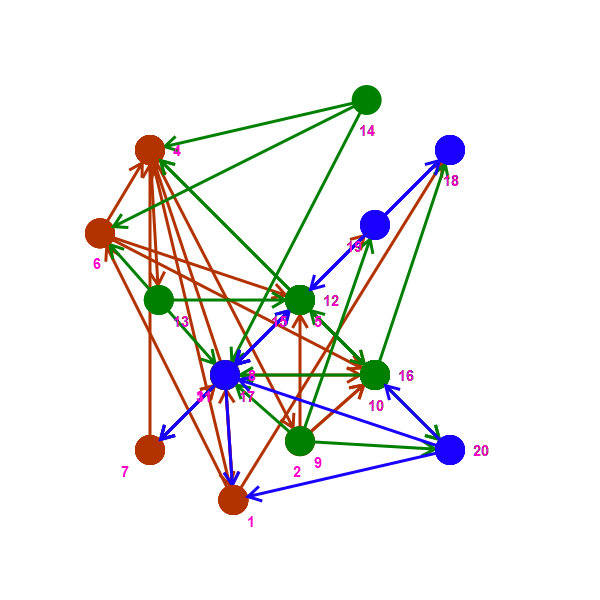
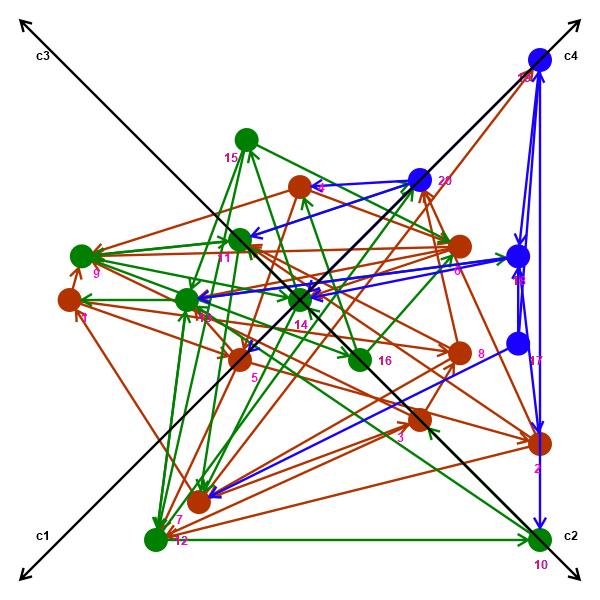
Add coordinate axis to make it more clear which corner corresponds to which challenge. Fix the posible numbers that the scores for each challenge can have {1, ..., 3} to {1, ..., 5}.

diff --git a/visualization.py b/visualization.py
@@ -8,6 +8,7 @@ import random
 WIDTH, HEIGHT = 600, 600
 r = 0.05
 
+
 # This function is a mess. I am SURE there has to be a more elegant solution
 def find_angle(x1, y1, x2, y2):
     if x2 == x1:
@@ -34,6 +35,17 @@ def find_angle(x1, y1, x2, y2):
         return arrow_angle
 
 
+def set_color(role):
+    if role == 'physics':
+        ctx.set_source_rgb(0.7, 0.2, 0)
+    elif role == 'business':
+        ctx.set_source_rgb(0, 0.5, 0)
+    elif role == 'software':
+        ctx.set_source_rgb(0.1, 0, 1)
+    else:
+        ctx.set_source_rgb(0, 0, 0)
+
+
 def draw_arrow(x1, y1, x2, y2, role):
     # print(x1, y1, x2, y2)
     arrow_length = np.linalg.norm(np.array([x1, y1] - np.array([x2, y2]))) - r
@@ -55,24 +67,32 @@ def draw_arrow(x1, y1, x2, y2, role):
         ctx.rel_line_to(-arrowhead_length * math.cos(arrow_angle + arrowhead_angle),
                         -arrowhead_length * math.sin(arrow_angle + arrowhead_angle))
 
-        if role == 'physics':
-            ctx.set_source_rgb(0.7, 0.2, 0)
-        elif role == 'business':
-            ctx.set_source_rgb(0, 0.5, 0)
-        else:
-            ctx.set_source_rgb(0.1, 0, 1)
+        set_color(role)
         ctx.set_line_width(0.01)
         ctx.stroke()
 
 
-def draw_participant(participant):
-    if participant.role == 'physics':
-        ctx.set_source_rgb(0.7, 0.2, 0)
-    elif participant.role == 'business':
-        ctx.set_source_rgb(0, 0.5, 0)
-    else:
-        ctx.set_source_rgb(0.1, 0, 1)
+def draw_text(x, y, txt):
+    ctx.move_to(x, y)
+    ctx.show_text(txt)
 
+
+def draw_coordinate_system():
+    border = 1.2
+    draw_arrow(0, 0, border, border, "")
+    draw_arrow(0, 0, -border, border, "")
+    draw_arrow(0, 0, border, -border, "")
+    draw_arrow(0, 0, -border, -border, "")
+    border = 1
+    x_offset = 0.1
+    draw_text(border + x_offset, border, "c2")
+    draw_text(-border - x_offset, border, "c1")
+    draw_text(border + x_offset, -border, "c4")
+    draw_text(-border - x_offset, -border, "c3")
+
+
+def draw_participant(participant):
+    set_color(participant.role)
     ctx.arc(participant.x, participant.y, r, 0, 2 * math.pi)
     ctx.close_path()
     ctx.fill()
@@ -111,8 +131,9 @@ if __name__ == "__main__":
 
     surface = cairo.ImageSurface(cairo.FORMAT_ARGB32, WIDTH, HEIGHT)
     ctx = cairo.Context(surface)
-    ctx.scale(WIDTH/2, HEIGHT/2)  # Normalizing the canvas
-    ctx.translate(1, 1)
+    canvas_size = 2.5
+    ctx.scale(WIDTH/canvas_size, HEIGHT/canvas_size)  # Normalizing the canvas
+    ctx.translate(canvas_size/2, canvas_size/2)
     ctx.set_line_width(9)
 
     ctx.select_font_face("Purisa", cairo.FONT_SLANT_NORMAL, cairo.FONT_WEIGHT_BOLD)
@@ -129,7 +150,7 @@ if __name__ == "__main__":
         draw_participant(participant)
         for friend in participant.friends:
             friend_object = Participant.get_participant_by_name(participants, friend)
-            draw_participant(friend_object) # TMP
+            # draw_participant(friend_object) # TMP
             draw_arrow(participant.x, participant.y, friend_object.x, friend_object.y, participant.role)
 
     # # Add a little noise to make the distances bigger, if needed:
@@ -138,6 +159,8 @@ if __name__ == "__main__":
 
     for c, participant in enumerate(participants):
         draw_idx(participant, c + 1)
+
+    draw_coordinate_system()
 
     surface.write_to_png("example.png")
 

diff --git a/generate_dummy_data.py b/generate_dummy_data.py
@@ -39,8 +39,7 @@ if __name__ == "__main__":
         # c = ['1', '2', '3', '4']
         # random.shuffle(c)
 
-        c = np.random.randint(3, size=4)
-        c += 1
+        c = np.random.randint(5, size=4) + 1
 
         participants[i] = ["-", name, role, p[0], p[1], p[2], c[0], c[1], c[2], c[3]]
 
